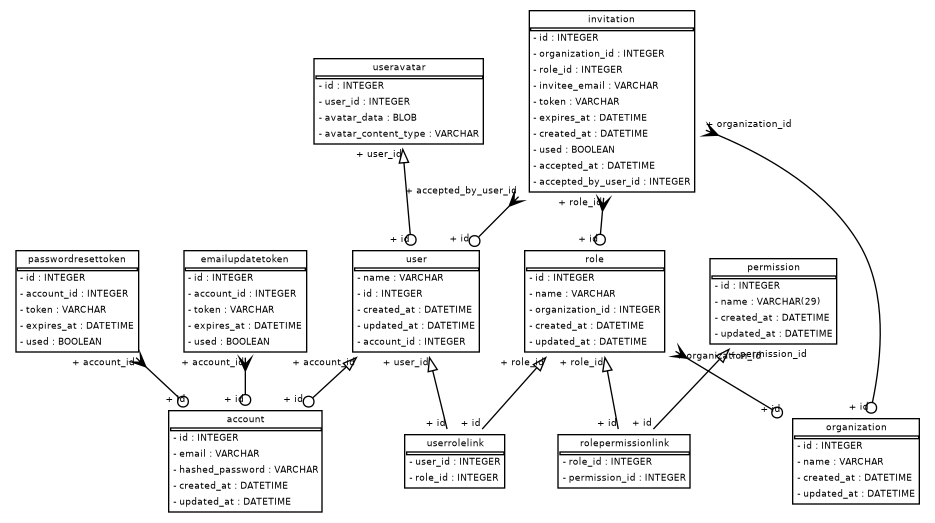
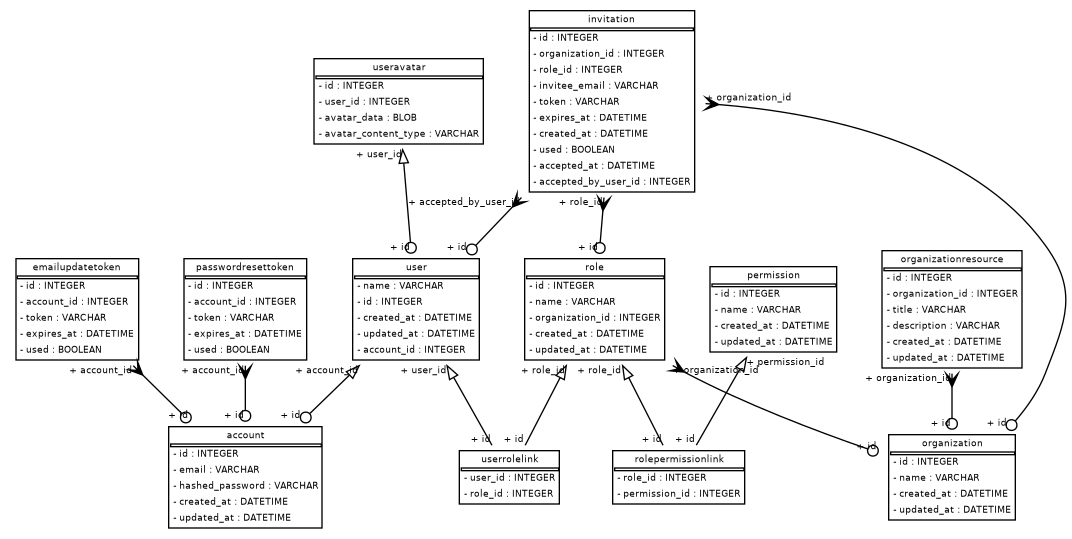
Built site for gh-pages

diff --git a/docs/customization.html b/docs/customization.html
@@ -213,6 +213,7 @@ pre > code.sourceCode > span > a:first-child::before { text-decoration: underlin
   <li><a href="#database-configuration-and-access-with-sqlmodel" id="toc-database-configuration-and-access-with-sqlmodel" class="nav-link" data-scroll-target="#database-configuration-and-access-with-sqlmodel">Database configuration and access with SQLModel</a>
   <ul class="collapse">
   <li><a href="#models-and-relationships" id="toc-models-and-relationships" class="nav-link" data-scroll-target="#models-and-relationships">Models and relationships</a></li>
+  <li><a href="#example-application-data-model" id="toc-example-application-data-model" class="nav-link" data-scroll-target="#example-application-data-model">Example application data model</a></li>
   <li><a href="#database-helpers" id="toc-database-helpers" class="nav-link" data-scroll-target="#database-helpers">Database helpers</a></li>
   <li><a href="#cascade-deletes" id="toc-cascade-deletes" class="nav-link" data-scroll-target="#cascade-deletes">Cascade deletes</a></li>
   </ul></li>
@@ -469,6 +470,17 @@ pre > code.sourceCode > span > a:first-child::before { text-decoration: underlin
 </div>
 <p>To extend the database schema, define your own models in <code>utils/app/models.py</code> and import them in <code>utils/core/db.py</code> to make sure they are included in the <code>metadata</code> object in the <code>create_all</code> function.</p>
 </section>
+<section id="example-application-data-model" class="level3">
+<h3 class="anchored" data-anchor-id="example-application-data-model">Example application data model</h3>
+<p>The template ships with an illustrative data model, <code>OrganizationResource</code>, in <code>utils/app/models.py</code>. This model demonstrates how to create an organization-scoped database table and is used by the dashboard to display example resources. It is <strong>meant to be replaced</strong> with your own application-specific models.</p>
+<p>To replace it:</p>
+<ol type="1">
+<li>Edit <code>utils/app/models.py</code> — remove <code>OrganizationResource</code> and define your own SQLModel table classes. Any table class defined in this file will be automatically created in the database on startup.</li>
+<li>Update <code>routers/core/dashboard.py</code> — replace the <code>OrganizationResource</code> query and template context with your own data.</li>
+<li>Update <code>templates/dashboard/index.html</code> — replace the example resource list with your own application UI.</li>
+<li>Optionally add new permission values to <code>AppPermissions</code> in <code>utils/app/enums.py</code> if your models need custom permission checks. These are automatically registered alongside the core <code>ValidPermissions</code> during database setup.</li>
+</ol>
+</section>
 <section id="database-helpers" class="level3">
 <h3 class="anchored" data-anchor-id="database-helpers">Database helpers</h3>
 <p>Database operations are facilitated by helper functions in <code>utils/core/db.py</code> (for core logic) and <code>utils/app/</code> (for app-specific helpers). Key functions in the core utils include:</p>
@@ -483,12 +495,16 @@ pre > code.sourceCode > span > a:first-child::before { text-decoration: underlin
 <span id="cb4-3"><a href="#cb4-3" aria-hidden="true" tabindex="-1"></a>    users <span class="op">=</span> session.<span class="bu">exec</span>(select(User)).<span class="bu">all</span>()</span>
 <span id="cb4-4"><a href="#cb4-4" aria-hidden="true" tabindex="-1"></a>    <span class="cf">return</span> users</span></code></pre></div><button title="Copy to Clipboard" class="code-copy-button"><i class="bi"></i></button></div>
 <p>The session automatically handles transaction management, ensuring that database operations are atomic and consistent.</p>
-<p>There is also a helper method on the <code>User</code> model that checks if a user has a specific permission for a given organization. Its first argument must be a <code>ValidPermissions</code> enum value (from <code>utils/core/models.py</code>), and its second argument must be an <code>Organization</code> object or an <code>int</code> representing an organization ID:</p>
-<div class="code-copy-outer-scaffold"><div class="sourceCode" id="cb5"><pre class="sourceCode python code-with-copy"><code class="sourceCode python"><span id="cb5-1"><a href="#cb5-1" aria-hidden="true" tabindex="-1"></a>permission <span class="op">=</span> ValidPermissions.CREATE_ROLE</span>
-<span id="cb5-2"><a href="#cb5-2" aria-hidden="true" tabindex="-1"></a>organization <span class="op">=</span> session.<span class="bu">exec</span>(select(Organization).where(Organization.name <span class="op">==</span> <span class="st">"Acme Inc."</span>)).first()</span>
+<p>There is also a helper method on the <code>User</code> model that checks if a user has a specific permission for a given organization. Its first argument must be a <code>StrEnum</code> value (either from <code>ValidPermissions</code> in <code>utils/core/enums.py</code> or <code>AppPermissions</code> in <code>utils/app/enums.py</code>), and its second argument must be an <code>Organization</code> object or an <code>int</code> representing an organization ID:</p>
+<div class="code-copy-outer-scaffold"><div class="sourceCode" id="cb5"><pre class="sourceCode python code-with-copy"><code class="sourceCode python"><span id="cb5-1"><a href="#cb5-1" aria-hidden="true" tabindex="-1"></a><span class="im">from</span> utils.core.enums <span class="im">import</span> ValidPermissions</span>
+<span id="cb5-2"><a href="#cb5-2" aria-hidden="true" tabindex="-1"></a><span class="im">from</span> utils.app.enums <span class="im">import</span> AppPermissions</span>
 <span id="cb5-3"><a href="#cb5-3" aria-hidden="true" tabindex="-1"></a></span>
-<span id="cb5-4"><a href="#cb5-4" aria-hidden="true" tabindex="-1"></a>user.has_permission(permission, organization)</span></code></pre></div><button title="Copy to Clipboard" class="code-copy-button"><i class="bi"></i></button></div>
-<p>You can add custom permission enum values to the <code>ValidPermissions</code> enum in <code>utils/core/enums.py</code> (below the core permissions section) and validate that users have the necessary permissions before allowing them to modify organization data resources.</p>
+<span id="cb5-4"><a href="#cb5-4" aria-hidden="true" tabindex="-1"></a><span class="co"># Check a core permission</span></span>
+<span id="cb5-5"><a href="#cb5-5" aria-hidden="true" tabindex="-1"></a>user.has_permission(ValidPermissions.CREATE_ROLE, organization)</span>
+<span id="cb5-6"><a href="#cb5-6" aria-hidden="true" tabindex="-1"></a></span>
+<span id="cb5-7"><a href="#cb5-7" aria-hidden="true" tabindex="-1"></a><span class="co"># Check an app-specific permission</span></span>
+<span id="cb5-8"><a href="#cb5-8" aria-hidden="true" tabindex="-1"></a>user.has_permission(AppPermissions.READ_ORGANIZATION_RESOURCES, organization)</span></code></pre></div><button title="Copy to Clipboard" class="code-copy-button"><i class="bi"></i></button></div>
+<p>Core permissions used by the template’s built-in features are defined in <code>ValidPermissions</code> (<code>utils/core/enums.py</code>). To add your own app-specific permissions, define them in <code>AppPermissions</code> (<code>utils/app/enums.py</code>). Both enum types are automatically registered in the database during setup and work interchangeably with <code>User.has_permission()</code>.</p>
 </section>
 <section id="cascade-deletes" class="level3">
 <h3 class="anchored" data-anchor-id="cascade-deletes">Cascade deletes</h3>
